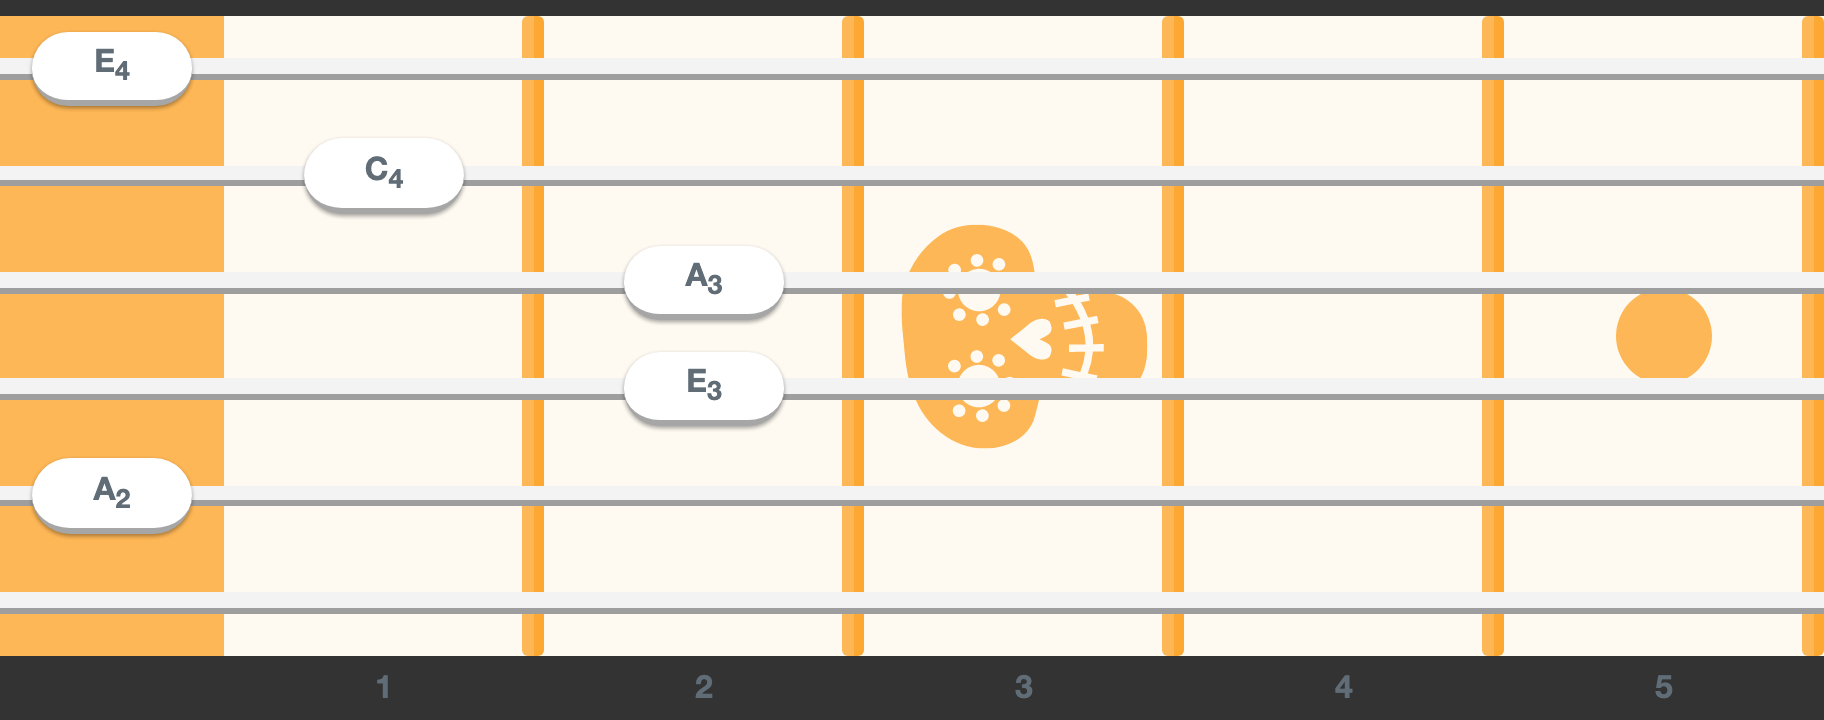
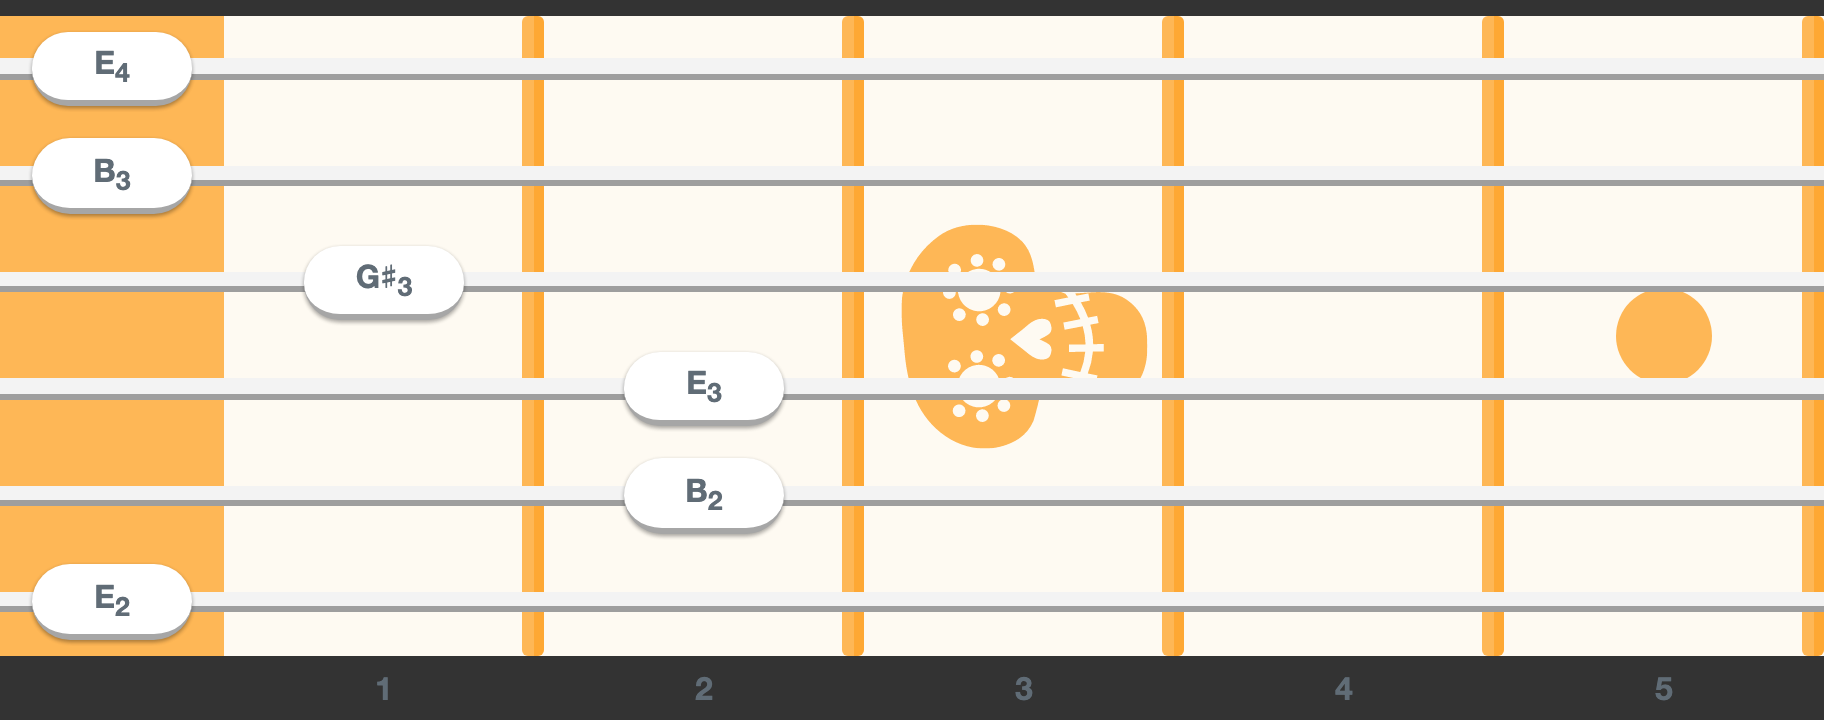
Updating screenshots with an EM chord

diff --git a/packages/react-guitar-screenshots/index.tsx b/packages/react-guitar-screenshots/index.tsx
@@ -7,7 +7,7 @@ import shoot from './shoot'
 
 const SampleGuitar = (props: { theme?: Theme }) => (
   <Guitar
-    strings={[0, 1, 2, 2, 0, -1]}
+    strings={[0, 0, 1, 2, 2, 0]}
     frets={{ from: 0, amount: 5 }}
     renderFinger={getRenderFingerSpn(tunings.standard)}
     theme={props.theme}
